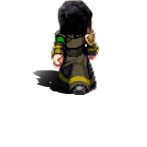
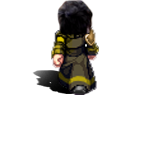
feat & fix: feat --> The SaveSlots are 100% completed | fix --> In the "Nueva partida" label and Milei char.
Now when you press "Nueva partida" having a previous one, you will get a
message. The fix is that this one will disapear with an animation now.

And Milei's front char had a problem too. It was wrong painted. Now,
it's completely yellow.

Changed region(s): [[0.381, 0.2177, 0.517, 0.381]]

diff --git a/TheWeirdWay.py b/TheWeirdWay.py
@@ -167,9 +167,8 @@ class Menu:  # Menu principal
         self.continuar = Button(graficos, text="Continuar Partida", fg=c_fg_no,
                                 cursor="arrow", font=("Century Gothic", 20),
                                 bg=c_bg_no2, width=27, state="disabled")
+
         if memoria.cargar() != [1, all_s, 'dross']:
-            print("Supuesto 1:", [1, all_s, 'dross'])
-            print("Supuesto 2:", memoria.cargar())
             self.continuar.config(cursor="hand2", activeforeground=c_fg,
                                   activebackground=c_bg_se, fg=c_fg,
                                   bg=c_bg_no, state="normal", command=lambda:
@@ -207,19 +206,25 @@ class Menu:  # Menu principal
         graficos.coords(self.ani_menu, -1, alto, ancho, self.num)
 
         if selected == "nueva":
-            graficos.move(self.nueva2,     + 65, 0)
-            graficos.move(self.continuar2, - 65, 0)
-            graficos.move(self.salir2,     - 65, 0)
+            try:
+                graficos.move(self.bg_texto,   -65, 0)
+                graficos.move(self.texto,      -65, 0)
+            except AttributeError:
+                pass
+            finally:
+                graficos.move(self.nueva2,     + 65, 0)
+                graficos.move(self.continuar2, - 65, 0)
+                graficos.move(self.salir2,     - 65, 0)
         elif selected == "continuar":
-            graficos.move(self.nueva2,     - 65, 0)
-            graficos.move(self.continuar2, + 65, 0)
-            graficos.move(self.salir2,     - 65, 0)
+            graficos.move(self.nueva2,         - 65, 0)
+            graficos.move(self.continuar2,     + 65, 0)
+            graficos.move(self.salir2,         - 65, 0)
         elif selected == "salir":
             mixer.music.fadeout(1000)
             select3_se.fadeout(1000)
-            graficos.move(self.nueva2,     - 65, 0)
-            graficos.move(self.continuar2, - 65, 0)
-            graficos.move(self.salir2,     + 65, 0)
+            graficos.move(self.nueva2,         - 65, 0)
+            graficos.move(self.continuar2,     - 65, 0)
+            graficos.move(self.salir2,         + 65, 0)
 
         if self.num > -50:  # Bucle generado para repetír el método (Animación)
             root.after(60, lambda: self.cerrar_menu(selected, per))

diff --git a/TheWeirdBBDD.py b/TheWeirdBBDD.py
@@ -54,7 +54,7 @@ class Memoria:
         return self.contenido
 
 
-c = Memoria()
+# c = Memoria()
 # c.añadir(1, ["10", "20", "30", "40", "50", "60", "70", "80", "90"], "dross")
-print(c.cargar())
-del c
+# print(c.cargar())
+# del c
